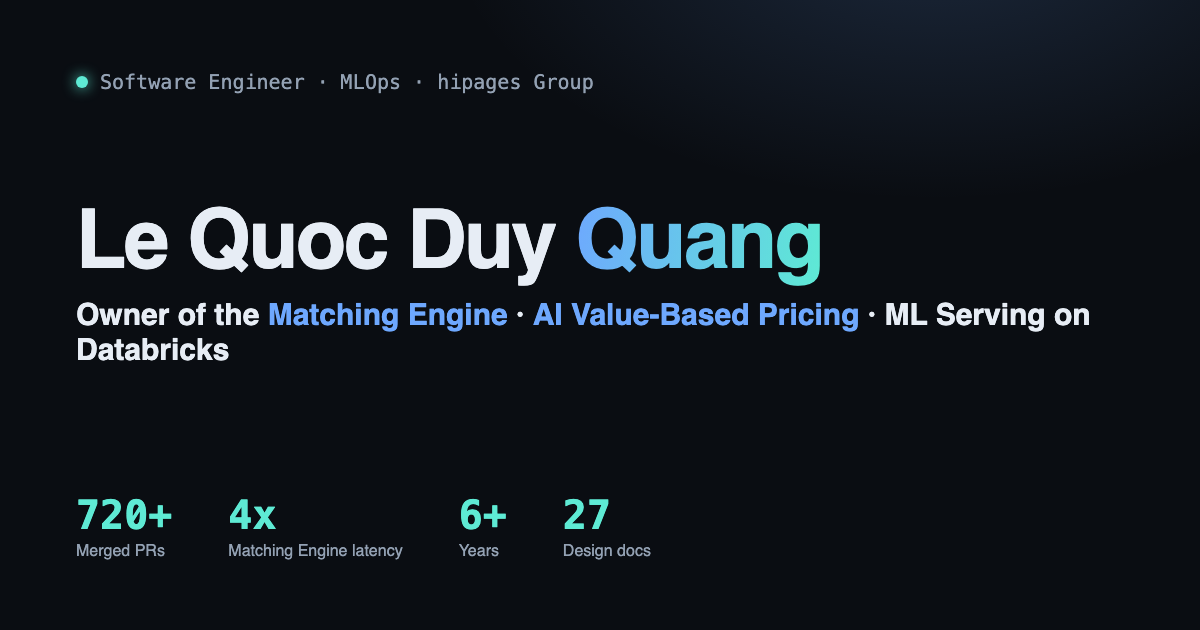
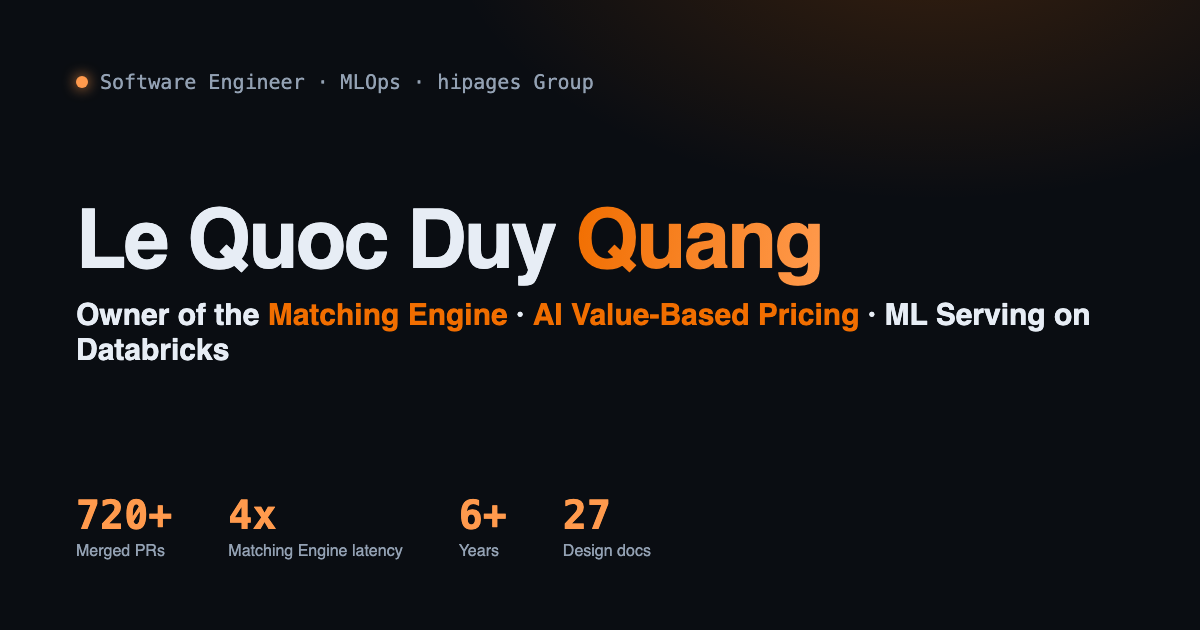
style: switch accent to hipages signature orange (#F16E00)
Recolor primary/metric/gold tokens, button hover, favicon, and OG image.

diff --git a/style.css b/style.css
@@ -12,10 +12,10 @@
   --text:      #e7edf5;
   --muted:     #93a1b3;
   --faint:     #6b7a8d;
-  --accent:    #6ea8fe;   /* primary — blue */
-  --accent-2:  #5eead4;   /* metrics — teal */
-  --accent-3:  #fbbf24;   /* awards — amber */
-  --glow:      rgba(110, 168, 254, 0.14);
+  --accent:    #f16e00;   /* primary — hipages orange */
+  --accent-2:  #ff9a4d;   /* metrics — light orange */
+  --accent-3:  #ffc24d;   /* awards — warm gold */
+  --glow:      rgba(241, 110, 0, 0.16);
   --mono: 'JetBrains Mono', ui-monospace, SFMono-Regular, Menlo, Consolas, monospace;
   --sans: 'Inter', -apple-system, BlinkMacSystemFont, 'Segoe UI', Roboto, Helvetica, Arial, sans-serif;
   --maxw: 1080px;
@@ -141,7 +141,7 @@ a:hover { text-decoration: underline; }
 .btn-primary {
   background: var(--accent); color: #06121f; border-color: var(--accent);
 }
-.btn-primary:hover { background: #85b6ff; }
+.btn-primary:hover { background: #ff8a2f; }
 .btn svg { width: 16px; height: 16px; }
 
 /* stat row */
